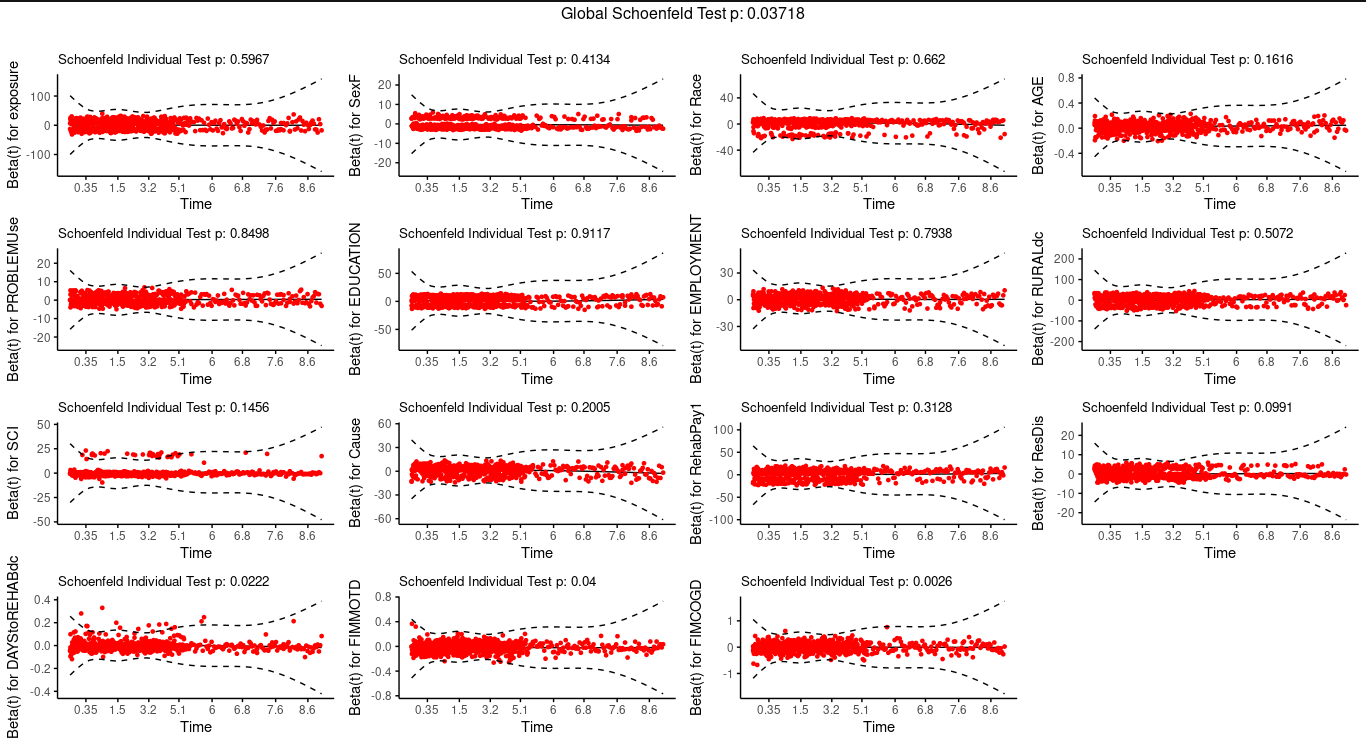
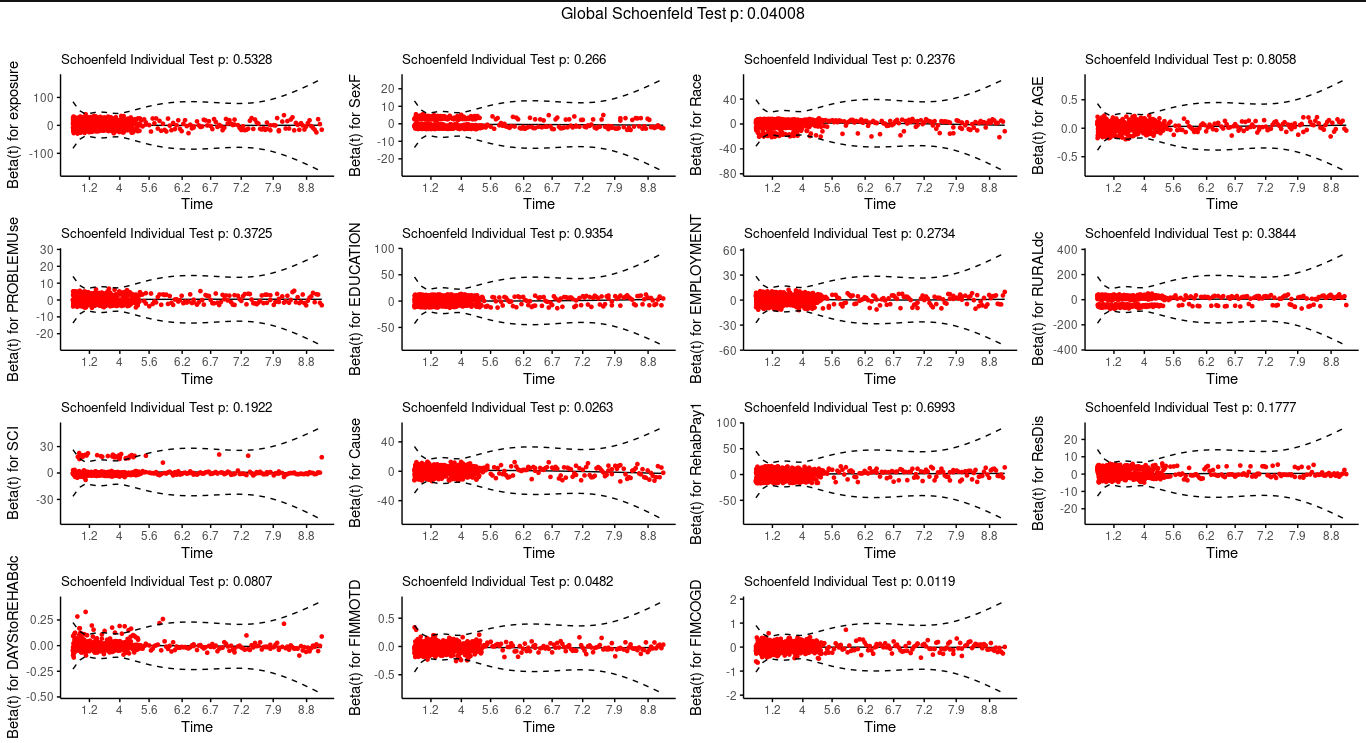
results updated after data was saved

diff --git a/report/SAR-2023-004-BH-v01.md b/report/SAR-2023-004-BH-v01.md
@@ -82,97 +82,97 @@ This analysis was performed using statistical software `R` version 4.2.1.
 ## Study population and follow up
 
 There initially were 76,665 observations on 19,303 study participants considered for inclusion.
-After applying the inclusion criteria for the study period between 2010-01-01 and 2018-12-31 and considering the status at the last available follow up time for each individual a total of 7,972 participants were included in the analysis.
-After excluding participants that were followed up concomitant with the COVID-19 pandemic to mitigate confounding on mortality causes there were 2,692 participants left in the study sample.
+After excluding follow up measurements during the COVID-19 pandemic to mitigate confounding on mortality causes there were 51,322 observations left in the study sample.
+After applying the inclusion criteria for the study period between 2010-01-01 and 2018-12-31 and considering the status at the last available follow up time for each individual a total of 7,415 participants were included in the analysis.
 
 The epidemiological profile of the participant included in the study was a
-male participant (1,959 (73%))
-with an average (SD) age of 36 (22) years.
-The average (SD) time of follow up was 4.00 (2.18) years.
+male participant (5,421 (73%))
+with an average (SD) age of 31 (20) years.
+The average (SD) time of follow up was 3.05 (1.94) years.
 
 Races were not homogeneously available in the study population with
-1,897 (71%) individuals being white;
-978 (36%) were single (never married) at the time of injury,
-and most participants were well educated with 1,239 (46%) at greater than high school level.
-A total of 1,392 (52%) were employed and
-1,292 (48%) participants lived in an urban area.
+4,941 (67%) individuals being white;
+3,170 (43%) were single (never married) at the time of injury,
+and most participants were well educated with 3,366 (46%) at greater than high school level.
+A total of 4,377 (59%) were employed and
+3,466 (48%) participants lived in an urban area.
 
 
 Table: **Table 1** Epidemiological, demographic and clinical characteristics of study participants.
 
-|                                        **Characteristic**                                        | **N = 2,692** |
+|                                        **Characteristic**                                        | **N = 7,415** |
 |:------------------------------------------------------------------------------------------------:|:-------------:|
 |                                     __SES quintiles, n (%)__                                     |               |
-|                                            Prosperous                                            |   496 (23%)   |
-|                                           Comfortable                                            |   439 (20%)   |
-|                                             Mid-Tier                                             |   402 (19%)   |
-|                                             At-Risk                                              |   410 (19%)   |
-|                                            Distressed                                            |   411 (19%)   |
-|                                             Unknown                                              |      534      |
-|                                       __Mortality, n (%)__                                       |  1,003 (37%)  |
-|                             __Time of follow up (years), Mean (SD)__                             |  4.00 (2.18)  |
+|                                            Prosperous                                            |  1,356 (22%)  |
+|                                           Comfortable                                            |  1,249 (20%)  |
+|                                             Mid-Tier                                             |  1,137 (19%)  |
+|                                             At-Risk                                              |  1,176 (19%)  |
+|                                            Distressed                                            |  1,197 (20%)  |
+|                                             Unknown                                              |     1,300     |
+|                                       __Mortality, n (%)__                                       |  1,004 (14%)  |
+|                             __Time of follow up (years), Mean (SD)__                             |  3.05 (1.94)  |
 |                                         __Sex:, n (%)__                                          |               |
-|                                               Male                                               |  1,959 (73%)  |
-|                                              Female                                              |   732 (27%)   |
-|                                             Unknown                                              |       1       |
+|                                               Male                                               |  5,421 (73%)  |
+|                                              Female                                              |  1,988 (27%)  |
+|                                             Unknown                                              |       6       |
 |                                  __What is your race?, n (%)__                                   |               |
-|                                              White                                               |  1,897 (71%)  |
-|                                              Black                                               |   376 (14%)   |
-|                                             Hispanic                                             |   287 (11%)   |
-|                                              Other                                               |  130 (4.8%)   |
-|                                             Unknown                                              |       2       |
+|                                              White                                               |  4,941 (67%)  |
+|                                              Black                                               |  1,144 (15%)  |
+|                                             Hispanic                                             |   952 (13%)   |
+|                                              Other                                               |  368 (5.0%)   |
+|                                             Unknown                                              |      10       |
 |                             __What is your marital status?, n (%)__                              |               |
-|                                      Single (Never Married)                                      |   978 (36%)   |
-|                                             Married                                              |  1,027 (38%)  |
-|                                             Divorced                                             |   361 (13%)   |
-|                                            Separated                                             |   84 (3.1%)   |
-|                                             Widowed                                              |  233 (8.7%)   |
-|                                              Other                                               |   5 (0.2%)    |
-|                                             Unknown                                              |       4       |
-|                                   __Age at injury, Mean (SD)__                                   |    36 (22)    |
-|                                             Unknown                                              |       3       |
-|                                 __Substance Problem Use, n (%)__                                 |   901 (35%)   |
-|                                             Unknown                                              |      98       |
+|                                      Single (Never Married)                                      |  3,170 (43%)  |
+|                                             Married                                              |  2,595 (35%)  |
+|                                             Divorced                                             |   921 (12%)   |
+|                                            Separated                                             |  244 (3.3%)   |
+|                                             Widowed                                              |  454 (6.1%)   |
+|                                              Other                                               |   15 (0.2%)   |
+|                                             Unknown                                              |      16       |
+|                                   __Age at injury, Mean (SD)__                                   |    31 (20)    |
+|                                             Unknown                                              |      19       |
+|                                 __Substance Problem Use, n (%)__                                 |  2,691 (38%)  |
+|                                             Unknown                                              |      264      |
 |                                       __Education, n (%)__                                       |               |
-|                                     Greater Than High School                                     |  1,239 (46%)  |
-|                                      Less Than High School                                       |   475 (18%)   |
-|                                         High School/GED                                          |   955 (36%)   |
-|                                             Unknown                                              |      23       |
+|                                     Greater Than High School                                     |  3,366 (46%)  |
+|                                      Less Than High School                                       |  1,380 (19%)  |
+|                                         High School/GED                                          |  2,615 (36%)  |
+|                                             Unknown                                              |      54       |
 |                  __At time of injury, what was your employment status?, n (%)__                  |               |
-|                                             Employed                                             |  1,392 (52%)  |
-|                                            Unemployed                                            |   289 (11%)   |
-|                                              Other                                               |  1,002 (37%)  |
-|                                             Unknown                                              |       9       |
+|                                             Employed                                             |  4,377 (59%)  |
+|                                            Unemployed                                            |   795 (11%)   |
+|                                              Other                                               |  2,209 (30%)  |
+|                                             Unknown                                              |      34       |
 |                __Urbanization based on zip code of address at discharge., n (%)__                |               |
-|                                             Suburban                                             |   808 (30%)   |
-|                                              Rural                                               |   565 (21%)   |
-|                                              Urban                                               |  1,292 (48%)  |
-|                                             Unknown                                              |      27       |
-| __Prior to this injury, has a physician ever told you that you have a seizure disorder?, n (%)__ |   11 (5.6%)   |
-|                                             Unknown                                              |     2,495     |
-|                                  __Spinal cord injury:, n (%)__                                  |  147 (5.5%)   |
-|                                             Unknown                                              |       3       |
+|                                             Suburban                                             |  2,191 (30%)  |
+|                                              Rural                                               |  1,635 (22%)  |
+|                                              Urban                                               |  3,466 (48%)  |
+|                                             Unknown                                              |      123      |
+| __Prior to this injury, has a physician ever told you that you have a seizure disorder?, n (%)__ |   52 (5.6%)   |
+|                                             Unknown                                              |     6,488     |
+|                                  __Spinal cord injury:, n (%)__                                  |  434 (5.9%)   |
+|                                             Unknown                                              |      19       |
 |                                   __Cause of injury:, n (%)__                                    |               |
-|                                            Vehicular                                             |  1,070 (40%)  |
-|                                             Violence                                             |  205 (7.6%)   |
-|                                              Falls                                               |  1,133 (42%)  |
-|                                              Other                                               |   280 (10%)   |
-|                                             Unknown                                              |       4       |
+|                                            Vehicular                                             |  3,327 (45%)  |
+|                                             Violence                                             |  650 (8.8%)   |
+|                                              Falls                                               |  2,544 (34%)  |
+|                                              Other                                               |   873 (12%)   |
+|                                             Unknown                                              |      21       |
 |                             __Primary rehabilitation payor:, n (%)__                             |               |
-|                                        Private Insurance                                         |  1,293 (48%)  |
-|                                         Public Insurance                                         |  1,213 (45%)  |
-|                                              Other                                               |  181 (6.7%)   |
-|                                             Unknown                                              |       5       |
+|                                        Private Insurance                                         |  3,872 (52%)  |
+|                                         Public Insurance                                         |  2,916 (39%)  |
+|                                              Other                                               |  600 (8.1%)   |
+|                                             Unknown                                              |      27       |
 |                           __Residence after rehab discharge:, n (%)__                            |               |
-|                                        Private Residence                                         |  1,974 (73%)  |
-|                                              Other                                               |   713 (27%)   |
-|                                             Unknown                                              |       5       |
-|                        __Days From Injury to Rehab Discharge, Mean (SD)__                        |    44 (36)    |
-|                              __FIM Motor at Discharge:, Mean (SD)__                              |    49 (20)    |
+|                                        Private Residence                                         |  5,857 (79%)  |
+|                                              Other                                               |  1,537 (21%)  |
+|                                             Unknown                                              |      21       |
+|                        __Days From Injury to Rehab Discharge, Mean (SD)__                        |    44 (35)    |
+|                              __FIM Motor at Discharge:, Mean (SD)__                              |    52 (18)    |
 |                            __FIM Cognitive at Discharge:, Mean (SD)__                            |    19 (7)     |
 
-The observed overall mortality was 37% in the study period.
-The distribution of cases appear homogeneous across SES quintiles (Figure 1), ranging from 30% to 39.4%.
+The observed overall mortality was 13.5% in the study period.
+The distribution of cases appear homogeneous across SES quintiles (Figure 1), ranging from 10.6% to 13.5%.
 We will test the effect of SES quintiles on the hazard rate in the next section.
 See also Figure A2 in the appendix for the distribution of sexes in each SES quintile in the study population.
 
@@ -184,7 +184,7 @@ See also Figure A2 in the appendix for the distribution of sexes in each SES qui
 ## Effect of SES on mortality
 
 The previous seizure disorder diagnosis was missing for most of the study population and was not included in the model as a covariate to preserve study power.
-After excluding participants with missing data from other variables a total of 2,074 complete cases were available for analysis.
+After excluding participants with missing data from other variables a total of 5,834 complete cases were available for analysis.
 
 The survival curves of both sexes by SES quintiles can be seen in Figure 2.
 Since none of the curves cross, the proportional hazards assumption is assumed to be held in the study data.
@@ -199,12 +199,12 @@ This plot was cropped at 85% survival for presentation purposes, see Figure A3 i
 
 When considering only the crude effect of SES on mortality neighborhood to which the individuals were discharged was associated with mortality (Table 2).
 Participants who were discharged to an at-risk neighborhood had increased chance of dying
-(HR = 1.32,
-95% CI = 1.04 to 1.66),
+(HR = 1.29,
+95% CI = 1.02 to 1.63),
 when compared to those discharged to a prosperous neighborhood.
 Participants discharged to a distressed neighborhood also had a higher mortality risk
-(HR = 1.46,
-95% CI = 1.16 to 1.83),
+(HR = 1.38,
+95% CI = 1.10 to 1.73),
 when compared to those discharged to a prosperous neighborhood.
 
 
@@ -214,10 +214,10 @@ Table: **Table 2** Effect of SES on mortality; HR estimates were adjusted for se
 |:------------------|:------:|:------------:|:-----------:|:------:|:------------:|:-----------:|:------:|:------------:|:-----------:|
 |__SES quintiles__  |        |              |             |        |              |             |        |              |             |
 |Prosperous         |   —    |      —       |             |   —    |      —       |             |   —    |      —       |             |
-|Comfortable        |  1.21  | 0.96 to 1.53 |    0.102    |  1.00  | 0.79 to 1.27 |    0.984    |  1.01  | 0.76 to 1.34 |    0.970    |
-|Mid-Tier           |  1.02  | 0.80 to 1.31 |    0.862    |  1.19  | 0.92 to 1.53 |    0.183    |  1.11  | 0.81 to 1.51 |    0.517    |
-|At-Risk            |  1.32  | 1.04 to 1.66 |  __0.022__  |  1.16  | 0.91 to 1.48 |    0.242    |  1.28  | 0.96 to 1.71 |    0.093    |
-|Distressed         |  1.46  | 1.16 to 1.83 |  __0.001__  |  1.29  | 1.01 to 1.66 |  __0.042__  |  1.22  | 0.91 to 1.65 |    0.190    |
+|Comfortable        |  1.18  | 0.94 to 1.49 |    0.152    |  0.99  | 0.78 to 1.25 |    0.930    |  1.00  | 0.75 to 1.33 |    0.985    |
+|Mid-Tier           |  1.00  | 0.78 to 1.27 |    0.982    |  1.14  | 0.88 to 1.46 |    0.318    |  1.08  | 0.79 to 1.47 |    0.625    |
+|At-Risk            |  1.29  | 1.02 to 1.63 |  __0.034__  |  1.20  | 0.94 to 1.53 |    0.154    |  1.32  | 0.99 to 1.76 |    0.058    |
+|Distressed         |  1.38  | 1.10 to 1.73 |  __0.006__  |  1.35  | 1.05 to 1.72 |  __0.018__  |  1.25  | 0.93 to 1.69 |    0.139    |
 
 After controlling for all relevant covariates, this effect can no longer be consistently detected, at the 5% level of significance.
 The point estimates for all adjusted estimates of SES effect range from 0.99 to 1.12, relative to the prosperous neighborhood, and that represents a narrower range of point estimates than the crude estimates (from 1.08 to 1.28).
@@ -283,49 +283,45 @@ Table: **Table A1** Alternative version of Table 2, showing effects from all cov
 |:-----------------------------------------------------------|:------:|:------------:|:-----------:|:------:|:------------:|:-----------:|:------:|:------------:|:-----------:|
 |__SES quintiles__                                           |        |              |             |        |              |             |        |              |             |
 |Prosperous                                                  |   —    |      —       |             |   —    |      —       |             |   —    |      —       |             |
-|Comfortable                                                 |  1.21  | 0.96 to 1.53 |    0.102    |  1.00  | 0.79 to 1.27 |    0.984    |  1.01  | 0.76 to 1.34 |    0.970    |
-|Mid-Tier                                                    |  1.02  | 0.80 to 1.31 |    0.862    |  1.19  | 0.92 to 1.53 |    0.183    |  1.11  | 0.81 to 1.51 |    0.517    |
-|At-Risk                                                     |  1.32  | 1.04 to 1.66 |  __0.022__  |  1.16  | 0.91 to 1.48 |    0.242    |  1.28  | 0.96 to 1.71 |    0.093    |
-|Distressed                                                  |  1.46  | 1.16 to 1.83 |  __0.001__  |  1.29  | 1.01 to 1.66 |  __0.042__  |  1.22  | 0.91 to 1.65 |    0.190    |
+|Comfortable                                                 |  1.18  | 0.94 to 1.49 |    0.152    |  0.99  | 0.78 to 1.25 |    0.930    |  1.00  | 0.75 to 1.33 |    0.985    |
+|Mid-Tier                                                    |  1.00  | 0.78 to 1.27 |    0.982    |  1.14  | 0.88 to 1.46 |    0.318    |  1.08  | 0.79 to 1.47 |    0.625    |
+|At-Risk                                                     |  1.29  | 1.02 to 1.63 |  __0.034__  |  1.20  | 0.94 to 1.53 |    0.154    |  1.32  | 0.99 to 1.76 |    0.058    |
+|Distressed                                                  |  1.38  | 1.10 to 1.73 |  __0.006__  |  1.35  | 1.05 to 1.72 |  __0.018__  |  1.25  | 0.93 to 1.69 |    0.139    |
 |__Sex:__                                                    |        |              |             |        |              |             |        |              |             |
 |Male                                                        |        |              |             |   —    |      —       |             |   —    |      —       |             |
-|Female                                                      |        |              |             |  0.67  | 0.57 to 0.80 | __<0.001__  |  0.66  | 0.53 to 0.81 | __<0.001__  |
+|Female                                                      |        |              |             |  0.67  | 0.56 to 0.80 | __<0.001__  |  0.65  | 0.53 to 0.81 | __<0.001__  |
 |__What is your race?__                                      |        |              |             |        |              |             |        |              |             |
 |White                                                       |        |              |             |   —    |      —       |             |   —    |      —       |             |
-|Black                                                       |        |              |             |  0.86  | 0.68 to 1.08 |    0.198    |  0.89  | 0.67 to 1.17 |    0.399    |
-|Hispanic                                                    |        |              |             |  0.61  | 0.44 to 0.84 |  __0.003__  |  0.66  | 0.45 to 0.97 |  __0.034__  |
-|Other                                                       |        |              |             |  0.68  | 0.45 to 1.02 |    0.062    |  0.73  | 0.45 to 1.16 |    0.180    |
-|__Age at injury__                                           |        |              |             |  1.03  | 1.02 to 1.03 | __<0.001__  |  1.03  | 1.02 to 1.04 | __<0.001__  |
+|Black                                                       |        |              |             |  0.81  | 0.64 to 1.02 |    0.070    |  0.83  | 0.63 to 1.10 |    0.193    |
+|Hispanic                                                    |        |              |             |  0.60  | 0.43 to 0.83 |  __0.002__  |  0.69  | 0.47 to 1.02 |    0.063    |
+|Other                                                       |        |              |             |  0.70  | 0.47 to 1.05 |    0.088    |  0.75  | 0.47 to 1.20 |    0.227    |
+|__Age at injury__                                           |        |              |             |  1.04  | 1.04 to 1.05 | __<0.001__  |  1.04  | 1.04 to 1.05 | __<0.001__  |
 |__Substance Problem Use__                                   |        |              |             |        |              |             |        |              |             |
 |No                                                          |        |              |             |   —    |      —       |             |   —    |      —       |             |
-|Yes                                                         |        |              |             |  1.17  | 0.97 to 1.41 |    0.105    |  1.20  | 0.96 to 1.49 |    0.115    |
+|Yes                                                         |        |              |             |  1.25  | 1.04 to 1.50 |  __0.017__  |  1.28  | 1.03 to 1.58 |  __0.028__  |
 |__Education__                                               |        |              |             |        |              |             |        |              |             |
 |Greater Than High School                                    |        |              |             |   —    |      —       |             |   —    |      —       |             |
-|Less Than High School                                       |        |              |             |  1.21  | 0.97 to 1.51 |    0.095    |  1.25  | 0.96 to 1.63 |    0.093    |
-|High School/GED                                             |        |              |             |  1.32  | 1.12 to 1.57 |  __0.001__  |  1.29  | 1.05 to 1.59 |  __0.016__  |
+|Less Than High School                                       |        |              |             |  1.23  | 0.98 to 1.54 |    0.070    |  1.26  | 0.97 to 1.64 |    0.087    |
+|High School/GED                                             |        |              |             |  1.36  | 1.15 to 1.61 | __<0.001__  |  1.29  | 1.05 to 1.59 |  __0.016__  |
 |__At time of injury, what was your employment status?__     |        |              |             |        |              |             |        |              |             |
 |Employed                                                    |        |              |             |   —    |      —       |             |   —    |      —       |             |
-|Unemployed                                                  |        |              |             |  1.60  | 1.21 to 2.12 |  __0.001__  |  1.58  | 1.13 to 2.20 |  __0.007__  |
-|Other                                                       |        |              |             |  1.91  | 1.56 to 2.35 | __<0.001__  |  1.88  | 1.48 to 2.40 | __<0.001__  |
+|Unemployed                                                  |        |              |             |  1.78  | 1.34 to 2.35 | __<0.001__  |  1.71  | 1.24 to 2.38 |  __0.001__  |
+|Other                                                       |        |              |             |  2.05  | 1.67 to 2.51 | __<0.001__  |  1.92  | 1.51 to 2.45 | __<0.001__  |
 |__Urbanization based on zip code of address at discharge.__ |        |              |             |        |              |             |        |              |             |
 |Suburban                                                    |        |              |             |   —    |      —       |             |   —    |      —       |             |
-|Rural                                                       |        |              |             |  1.02  | 0.82 to 1.28 |    0.849    |  1.16  | 0.89 to 1.51 |    0.272    |
-|Urban                                                       |        |              |             |  1.08  | 0.90 to 1.31 |    0.403    |  1.07  | 0.84 to 1.34 |    0.594    |
+|Rural                                                       |        |              |             |  1.02  | 0.82 to 1.28 |    0.851    |  1.16  | 0.89 to 1.51 |    0.267    |
+|Urban                                                       |        |              |             |  1.08  | 0.90 to 1.31 |    0.405    |  1.09  | 0.87 to 1.37 |    0.461    |
 |__Spinal cord injury:__                                     |        |              |             |        |              |             |        |              |             |
 |No                                                          |        |              |             |   —    |      —       |             |   —    |      —       |             |
-|Yes                                                         |        |              |             |  1.29  | 0.92 to 1.81 |    0.133    |  1.40  | 0.94 to 2.09 |    0.094    |
-|__Cause of injury:__                                        |        |              |             |        |              |             |        |              |             |
-|Vehicular                                                   |        |              |             |   —    |      —       |             |   —    |      —       |             |
-|Violence                                                    |        |              |             |  1.36  | 0.97 to 1.92 |    0.074    |  1.27  | 0.84 to 1.92 |    0.255    |
-|Falls                                                       |        |              |             |  1.52  | 1.24 to 1.87 | __<0.001__  |  1.38  | 1.08 to 1.75 |  __0.009__  |
-|Other                                                       |        |              |             |  1.17  | 0.85 to 1.62 |    0.337    |  1.26  | 0.87 to 1.84 |    0.220    |
+|Yes                                                         |        |              |             |  1.19  | 0.85 to 1.67 |    0.312    |  1.34  | 0.90 to 2.00 |    0.153    |
 |__Primary rehabilitation payor:__                           |        |              |             |        |              |             |        |              |             |
 |Private Insurance                                           |        |              |             |   —    |      —       |             |   —    |      —       |             |
-|Public Insurance                                            |        |              |             |  1.29  | 1.07 to 1.55 |  __0.008__  |  1.45  | 1.16 to 1.83 |  __0.001__  |
-|Other                                                       |        |              |             |  1.25  | 0.87 to 1.80 |    0.222    |  1.47  | 0.97 to 2.22 |    0.068    |
+|Public Insurance                                            |        |              |             |  1.42  | 1.18 to 1.71 | __<0.001__  |  1.57  | 1.25 to 1.97 | __<0.001__  |
+|Other                                                       |        |              |             |  1.16  | 0.80 to 1.66 |    0.434    |  1.32  | 0.88 to 2.00 |    0.183    |
 |__Residence after rehab discharge:__                        |        |              |             |        |              |             |        |              |             |
 |Private Residence                                           |        |              |             |   —    |      —       |             |   —    |      —       |             |
-|Other                                                       |        |              |             |  1.57  | 1.33 to 1.85 | __<0.001__  |  1.26  | 1.02 to 1.55 |  __0.031__  |
+|Other                                                       |        |              |             |  1.70  | 1.44 to 2.01 | __<0.001__  |  1.39  | 1.12 to 1.71 |  __0.002__  |
+|__Days From Injury to Rehab Discharge__                     |        |              |             |  1.00  | 1.00 to 1.01 |  __0.009__  |  1.00  | 1.00 to 1.00 |    0.396    |
 
 ## Availability
 
